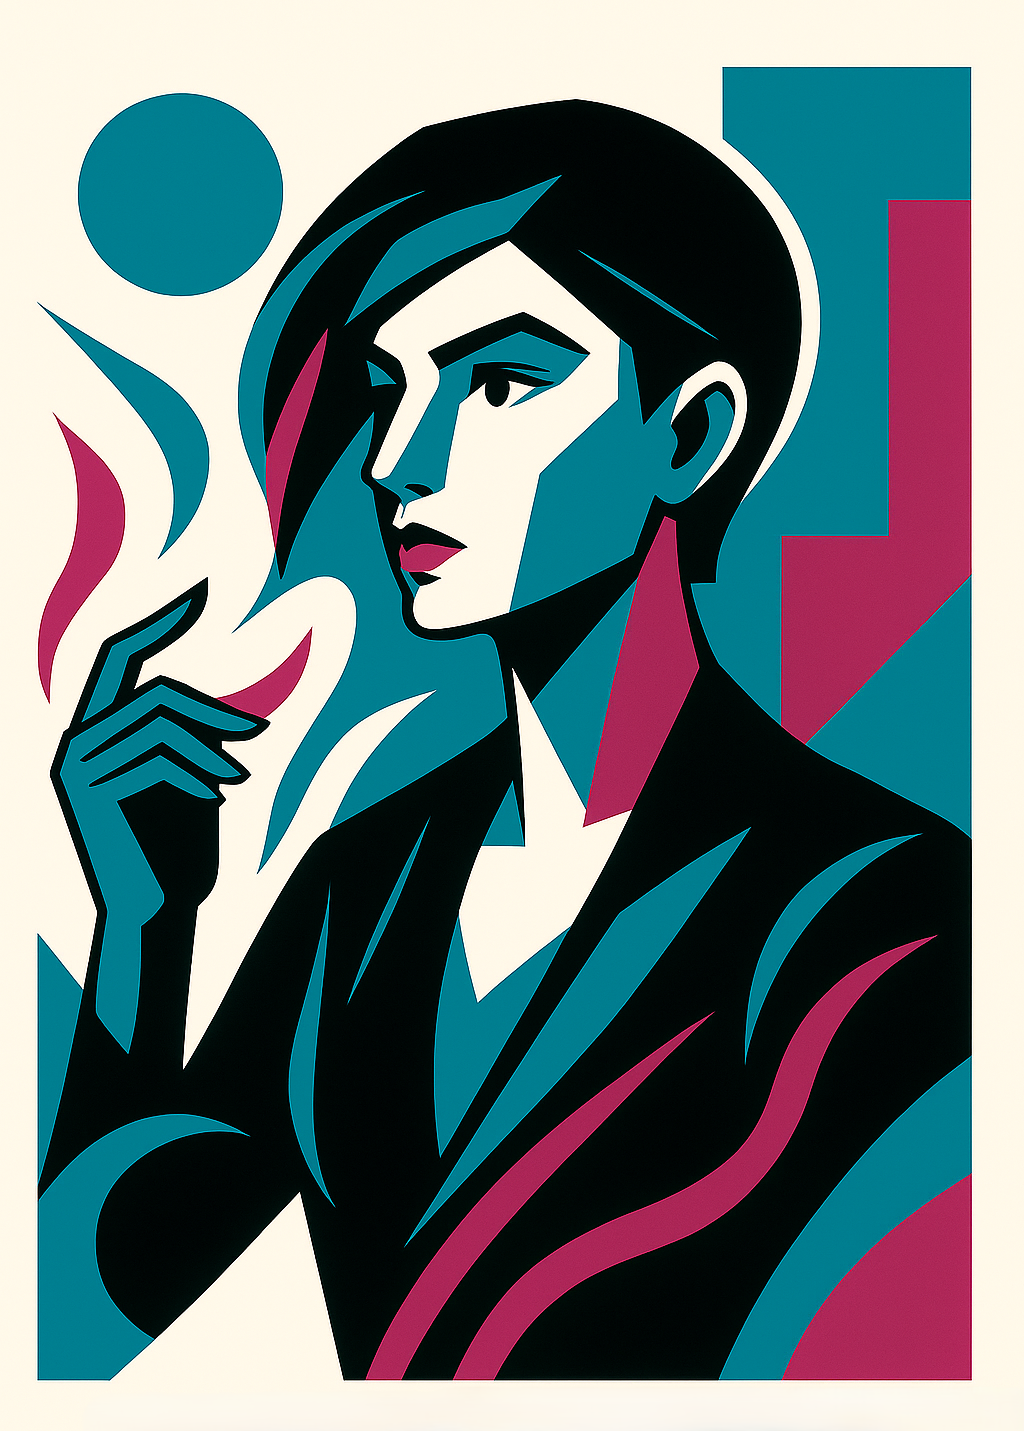
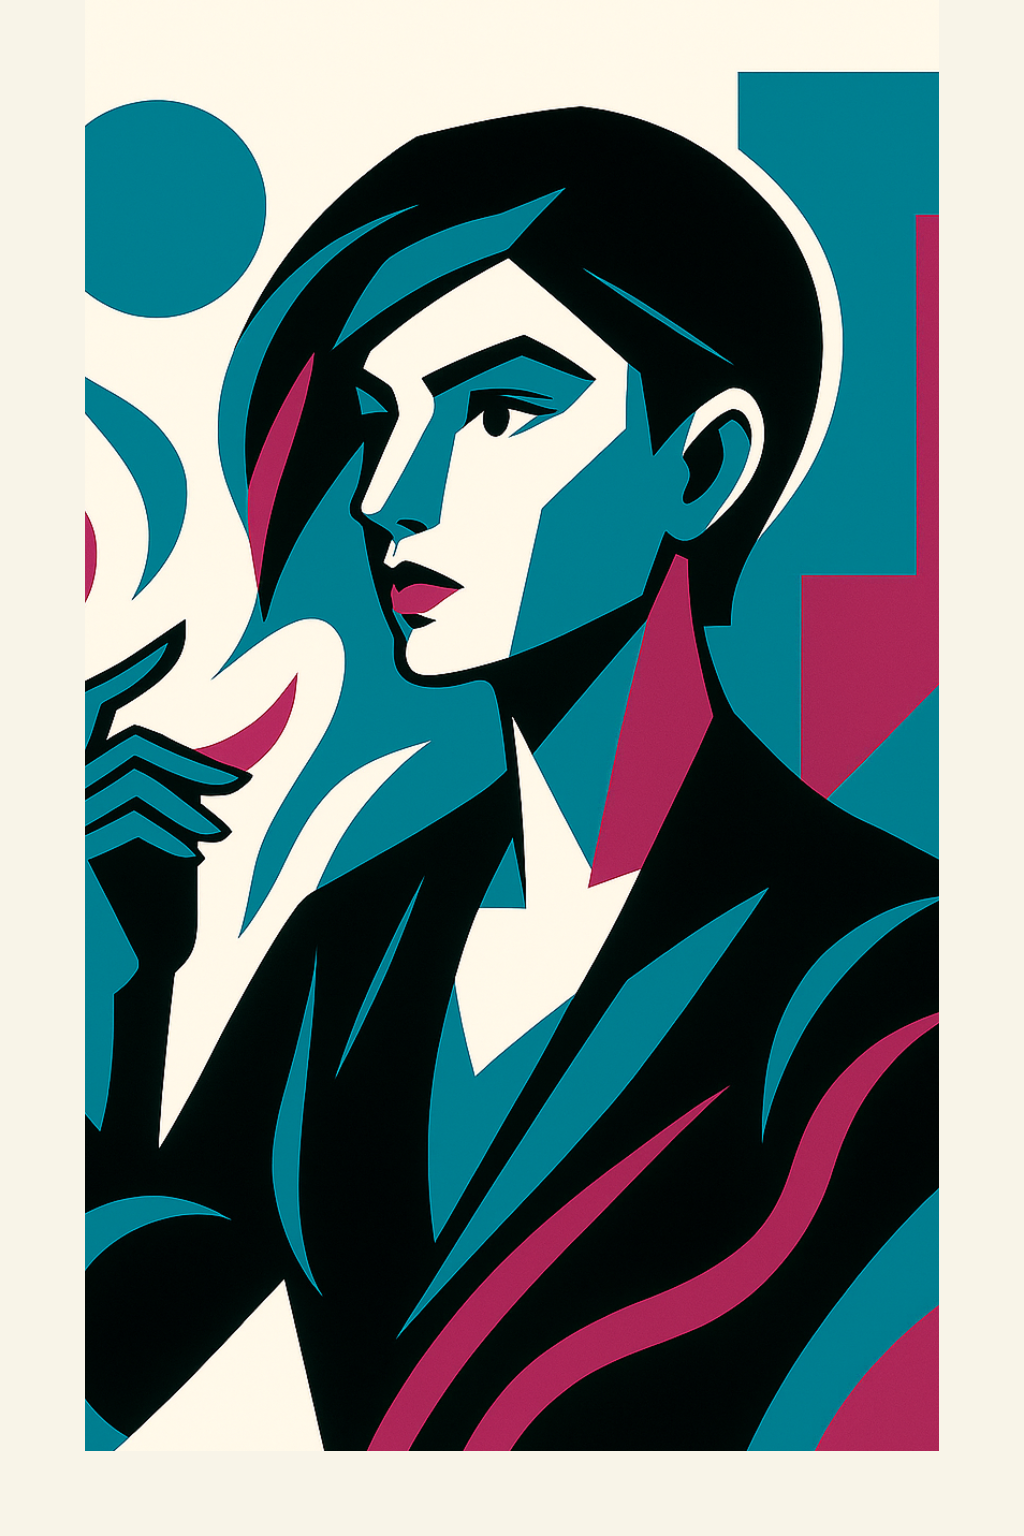
Rechange images of collaboration,innovation, along with changed the path of the innovation image

diff --git a/src/components/About/WeBelieveSection/WeBelieveSection.jsx b/src/components/About/WeBelieveSection/WeBelieveSection.jsx
@@ -6,7 +6,7 @@ import { Card, CardContent } from "@/components/ui/card"
 const beliefItems = [
   { title: "Transparency", image: "/media/whatwebelive/transparency.png" },
   { title: "Passion", image: "/media/whatwebelive/passion.png" },
-  { title: "Innovation", image: "/stylized-illustration-of-professional-person-with-.png" },
+  { title: "Innovation", image: "/media/whatwebelive/innovation.png" },
   { title: "Integrity", image: "/media/whatwebelive/integrity.png" },
   { title: "Excellence", image: "/media/whatwebelive/collaboration.png" },
 ]
